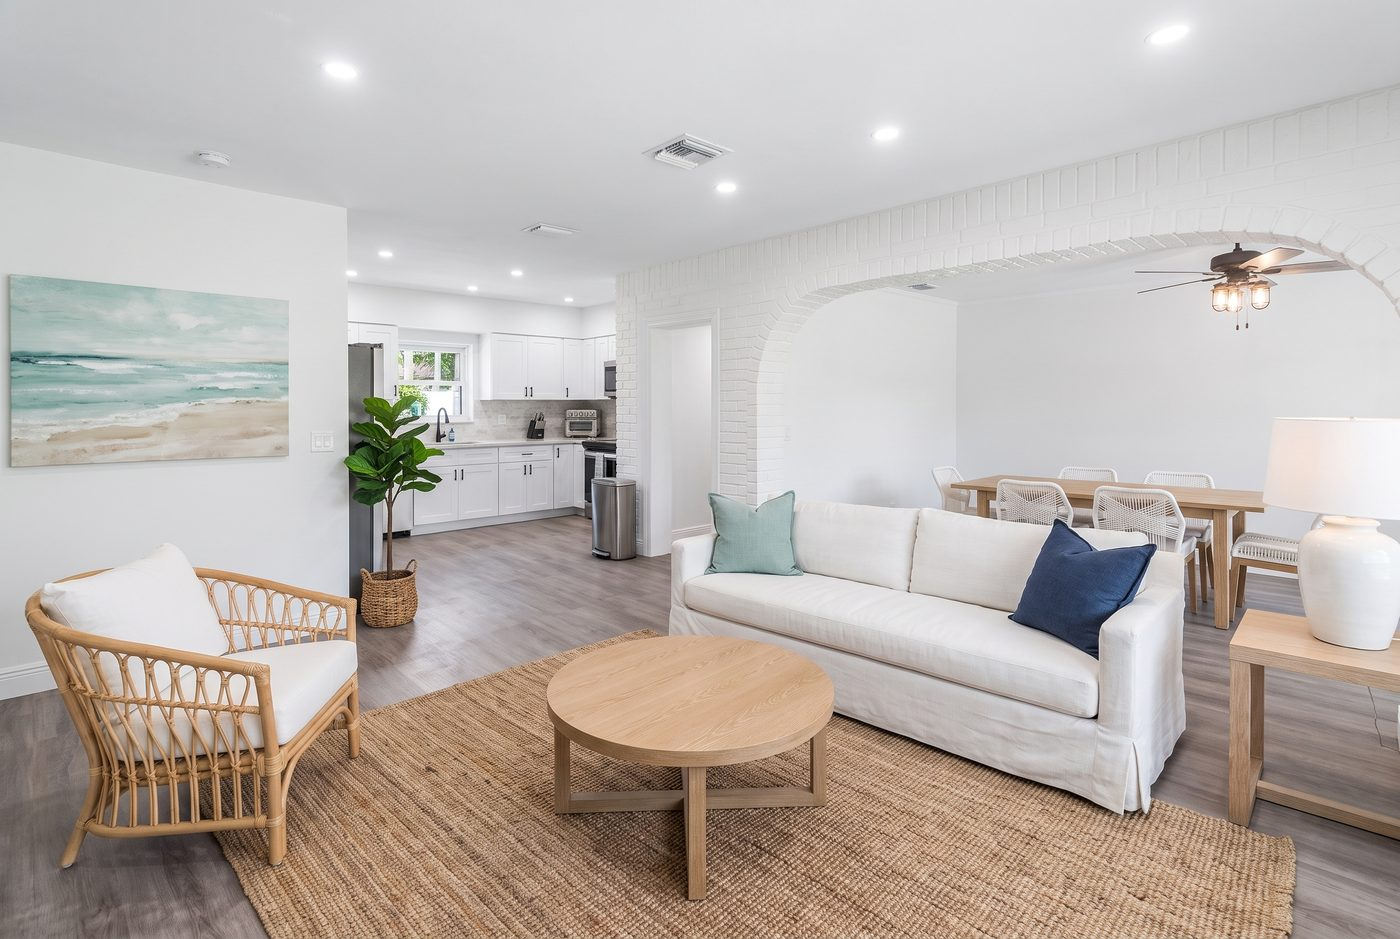
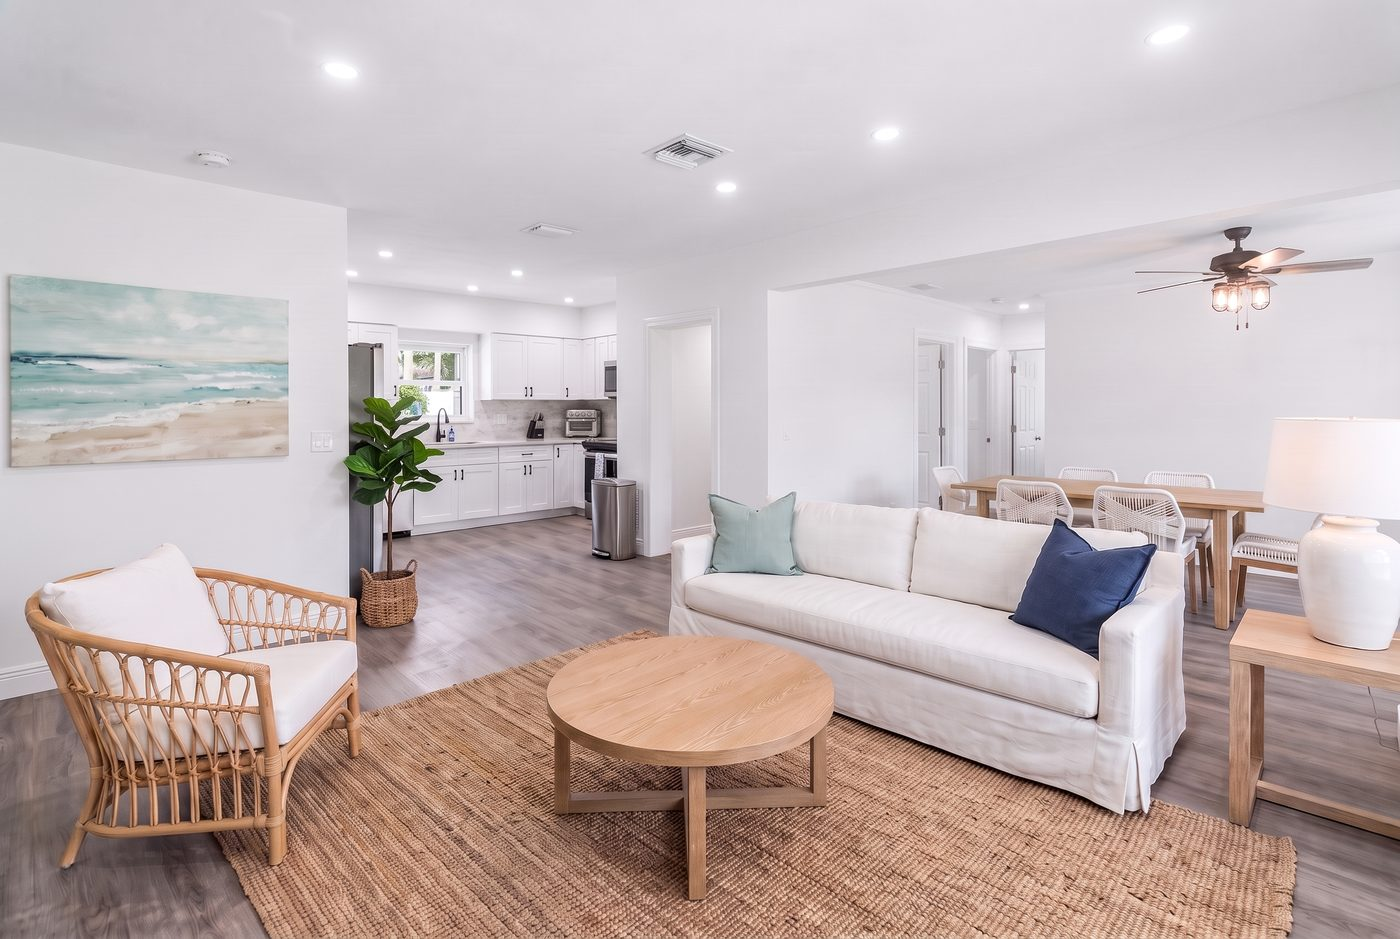
Add fully opened living room option

diff --git a/index.html b/index.html
@@ -12,7 +12,7 @@
 <section class="mx-auto max-w-3xl px-6 py-14"><p class="serif text-3xl leading-snug text-stone-900 sm:text-4xl">A turnkey coastal cottage with a heated saltwater pool on a quiet Boynton Beach street, a short bike ride to the sand and minutes to Delray&#x27;s Atlantic Avenue.</p><div class="mt-6 space-y-4 text-[17px] leading-relaxed text-stone-700"><p>An original white-brick arch frames one bright, open living and dining space: crisp white walls, wide-plank floors and a white shaker kitchen with quartz counters and stainless appliances. Prefer it fully open? The arch can come out for one continuous great room.</p><p>Out back, a new covered open-air lanai with a plank ceiling, fan, wall-mounted television and built-in grill island flows onto the travertine deck and a heated saltwater pool with a tanning platform, framed by clusia hedges, foxtail palms and landscape lighting for evenings outdoors.</p><p>Two bedrooms, a spa-style bath with a glass walk-in shower, rooftop solar, a new white privacy fence, and an easy ride to Oceanfront Park, the Boynton Harbor Marina and downtown Delray.</p></div></section>
 <section class="mx-auto max-w-6xl px-4 pb-6"><h2 class="serif mb-5 px-2 text-3xl text-stone-900">Gallery</h2><div class="grid grid-cols-1 gap-4 sm:grid-cols-2 lg:grid-cols-3"><figure class="group relative overflow-hidden rounded-2xl bg-stone-200 cursor-zoom-in" data-full="img/g01.jpg"><img src="img/g01.jpg" alt="Pool, lanai and lawn" loading="lazy" class="h-64 w-full object-cover transition duration-500 group-hover:scale-105 sm:h-72"/><figcaption class="absolute bottom-0 left-0 right-0 bg-gradient-to-t from-black/60 to-transparent px-4 pb-3 pt-10 text-sm text-white">Pool, lanai and lawn</figcaption></figure>
 <figure class="group relative overflow-hidden rounded-2xl bg-stone-200 cursor-zoom-in" data-full="img/g02.jpg"><img src="img/g02.jpg" alt="Open living and dining" loading="lazy" class="h-64 w-full object-cover transition duration-500 group-hover:scale-105 sm:h-72"/><figcaption class="absolute bottom-0 left-0 right-0 bg-gradient-to-t from-black/60 to-transparent px-4 pb-3 pt-10 text-sm text-white">Open living and dining</figcaption></figure>
-<figure class="group relative overflow-hidden rounded-2xl bg-stone-200 cursor-zoom-in" data-full="img/g03.jpg"><img src="img/g03.jpg" alt="Option: arch removed for one open great room" loading="lazy" class="h-64 w-full object-cover transition duration-500 group-hover:scale-105 sm:h-72"/><figcaption class="absolute bottom-0 left-0 right-0 bg-gradient-to-t from-black/60 to-transparent px-4 pb-3 pt-10 text-sm text-white">Option: arch removed for one open great room</figcaption></figure>
+<figure class="group relative overflow-hidden rounded-2xl bg-stone-200 cursor-zoom-in" data-full="img/g03.jpg"><img src="img/g03.jpg" alt="Option: brick arch and hallway wall removed for one open great room" loading="lazy" class="h-64 w-full object-cover transition duration-500 group-hover:scale-105 sm:h-72"/><figcaption class="absolute bottom-0 left-0 right-0 bg-gradient-to-t from-black/60 to-transparent px-4 pb-3 pt-10 text-sm text-white">Option: brick arch and hallway wall removed for one open great room</figcaption></figure>
 <figure class="group relative overflow-hidden rounded-2xl bg-stone-200 cursor-zoom-in" data-full="img/g04.jpg"><img src="img/g04.jpg" alt="Living room and the original brick arch" loading="lazy" class="h-64 w-full object-cover transition duration-500 group-hover:scale-105 sm:h-72"/><figcaption class="absolute bottom-0 left-0 right-0 bg-gradient-to-t from-black/60 to-transparent px-4 pb-3 pt-10 text-sm text-white">Living room and the original brick arch</figcaption></figure>
 <figure class="group relative overflow-hidden rounded-2xl bg-stone-200 cursor-zoom-in" data-full="img/g05.jpg"><img src="img/g05.jpg" alt="Resort pool and travertine deck" loading="lazy" class="h-64 w-full object-cover transition duration-500 group-hover:scale-105 sm:h-72"/><figcaption class="absolute bottom-0 left-0 right-0 bg-gradient-to-t from-black/60 to-transparent px-4 pb-3 pt-10 text-sm text-white">Resort pool and travertine deck</figcaption></figure>
 <figure class="group relative overflow-hidden rounded-2xl bg-stone-200 cursor-zoom-in" data-full="img/g06.jpg"><img src="img/g06.jpg" alt="Dining room" loading="lazy" class="h-64 w-full object-cover transition duration-500 group-hover:scale-105 sm:h-72"/><figcaption class="absolute bottom-0 left-0 right-0 bg-gradient-to-t from-black/60 to-transparent px-4 pb-3 pt-10 text-sm text-white">Dining room</figcaption></figure>
@@ -39,23 +39,27 @@
     <div class="absolute left-3 top-3 flex gap-2"><button class="ba-btn rounded-full bg-white/90 px-3 py-1 text-xs font-semibold tracking-wide text-stone-800 shadow" data-state="before">BEFORE</button><button class="ba-btn rounded-full bg-stone-900 px-3 py-1 text-xs font-semibold tracking-wide text-white shadow" data-state="after">AFTER</button></div></div>
   <p class="px-4 py-3 text-sm text-stone-600">Pool, lanai and lawn</p></div>
 <div class="ba rounded-2xl overflow-hidden bg-stone-200" data-before="img/b02.jpg" data-after="img/a02.jpg">
-  <div class="relative"><img src="img/a02.jpg" class="w-full object-cover aspect-[4/3] ba-img" alt="Open living and dining"/>
+  <div class="relative"><img src="img/a02.jpg" class="w-full object-cover aspect-[4/3] ba-img" alt="Living room, fully opened"/>
+    <div class="absolute left-3 top-3 flex gap-2"><button class="ba-btn rounded-full bg-white/90 px-3 py-1 text-xs font-semibold tracking-wide text-stone-800 shadow" data-state="before">BEFORE</button><button class="ba-btn rounded-full bg-stone-900 px-3 py-1 text-xs font-semibold tracking-wide text-white shadow" data-state="after">AFTER</button></div></div>
+  <p class="px-4 py-3 text-sm text-stone-600">Living room, fully opened</p></div>
+<div class="ba rounded-2xl overflow-hidden bg-stone-200" data-before="img/b03.jpg" data-after="img/a03.jpg">
+  <div class="relative"><img src="img/a03.jpg" class="w-full object-cover aspect-[4/3] ba-img" alt="Open living and dining"/>
     <div class="absolute left-3 top-3 flex gap-2"><button class="ba-btn rounded-full bg-white/90 px-3 py-1 text-xs font-semibold tracking-wide text-stone-800 shadow" data-state="before">BEFORE</button><button class="ba-btn rounded-full bg-stone-900 px-3 py-1 text-xs font-semibold tracking-wide text-white shadow" data-state="after">AFTER</button></div></div>
   <p class="px-4 py-3 text-sm text-stone-600">Open living and dining</p></div>
-<div class="ba rounded-2xl overflow-hidden bg-stone-200" data-before="img/b03.jpg" data-after="img/a03.jpg">
-  <div class="relative"><img src="img/a03.jpg" class="w-full object-cover aspect-[4/3] ba-img" alt="Dining room"/>
+<div class="ba rounded-2xl overflow-hidden bg-stone-200" data-before="img/b04.jpg" data-after="img/a04.jpg">
+  <div class="relative"><img src="img/a04.jpg" class="w-full object-cover aspect-[4/3] ba-img" alt="Dining room"/>
     <div class="absolute left-3 top-3 flex gap-2"><button class="ba-btn rounded-full bg-white/90 px-3 py-1 text-xs font-semibold tracking-wide text-stone-800 shadow" data-state="before">BEFORE</button><button class="ba-btn rounded-full bg-stone-900 px-3 py-1 text-xs font-semibold tracking-wide text-white shadow" data-state="after">AFTER</button></div></div>
   <p class="px-4 py-3 text-sm text-stone-600">Dining room</p></div>
-<div class="ba rounded-2xl overflow-hidden bg-stone-200" data-before="img/b04.jpg" data-after="img/a04.jpg">
-  <div class="relative"><img src="img/a04.jpg" class="w-full object-cover aspect-[4/3] ba-img" alt="Resort pool and travertine deck"/>
+<div class="ba rounded-2xl overflow-hidden bg-stone-200" data-before="img/b05.jpg" data-after="img/a05.jpg">
+  <div class="relative"><img src="img/a05.jpg" class="w-full object-cover aspect-[4/3] ba-img" alt="Resort pool and travertine deck"/>
     <div class="absolute left-3 top-3 flex gap-2"><button class="ba-btn rounded-full bg-white/90 px-3 py-1 text-xs font-semibold tracking-wide text-stone-800 shadow" data-state="before">BEFORE</button><button class="ba-btn rounded-full bg-stone-900 px-3 py-1 text-xs font-semibold tracking-wide text-white shadow" data-state="after">AFTER</button></div></div>
   <p class="px-4 py-3 text-sm text-stone-600">Resort pool and travertine deck</p></div>
-<div class="ba rounded-2xl overflow-hidden bg-stone-200" data-before="img/b05.jpg" data-after="img/a05.jpg">
-  <div class="relative"><img src="img/a05.jpg" class="w-full object-cover aspect-[4/3] ba-img" alt="Primary bedroom"/>
+<div class="ba rounded-2xl overflow-hidden bg-stone-200" data-before="img/b06.jpg" data-after="img/a06.jpg">
+  <div class="relative"><img src="img/a06.jpg" class="w-full object-cover aspect-[4/3] ba-img" alt="Primary bedroom"/>
     <div class="absolute left-3 top-3 flex gap-2"><button class="ba-btn rounded-full bg-white/90 px-3 py-1 text-xs font-semibold tracking-wide text-stone-800 shadow" data-state="before">BEFORE</button><button class="ba-btn rounded-full bg-stone-900 px-3 py-1 text-xs font-semibold tracking-wide text-white shadow" data-state="after">AFTER</button></div></div>
   <p class="px-4 py-3 text-sm text-stone-600">Primary bedroom</p></div>
-<div class="ba rounded-2xl overflow-hidden bg-stone-200" data-before="img/b06.jpg" data-after="img/a06.jpg">
-  <div class="relative"><img src="img/a06.jpg" class="w-full object-cover aspect-[4/3] ba-img" alt="Front entry"/>
+<div class="ba rounded-2xl overflow-hidden bg-stone-200" data-before="img/b07.jpg" data-after="img/a07.jpg">
+  <div class="relative"><img src="img/a07.jpg" class="w-full object-cover aspect-[4/3] ba-img" alt="Front entry"/>
     <div class="absolute left-3 top-3 flex gap-2"><button class="ba-btn rounded-full bg-white/90 px-3 py-1 text-xs font-semibold tracking-wide text-stone-800 shadow" data-state="before">BEFORE</button><button class="ba-btn rounded-full bg-stone-900 px-3 py-1 text-xs font-semibold tracking-wide text-white shadow" data-state="after">AFTER</button></div></div>
   <p class="px-4 py-3 text-sm text-stone-600">Front entry</p></div></div></div></section>
 <footer class="px-6 py-10 text-center text-xs text-stone-500">Coming soon. Photographs are renderings prepared for the owners and are not an offer of sale.</footer>
